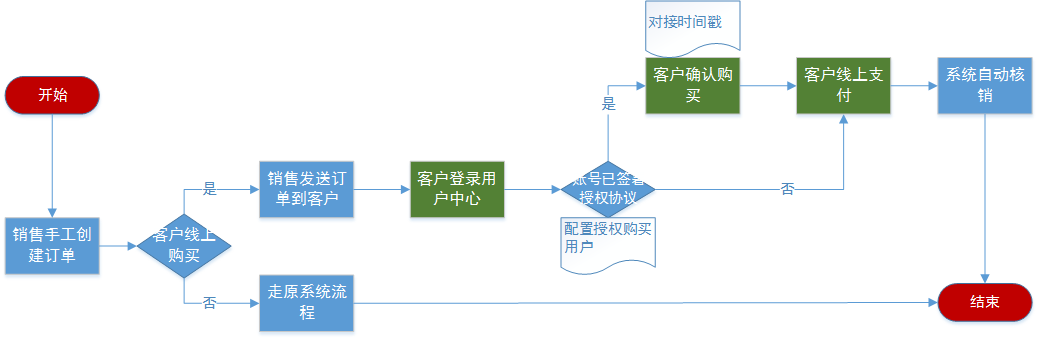
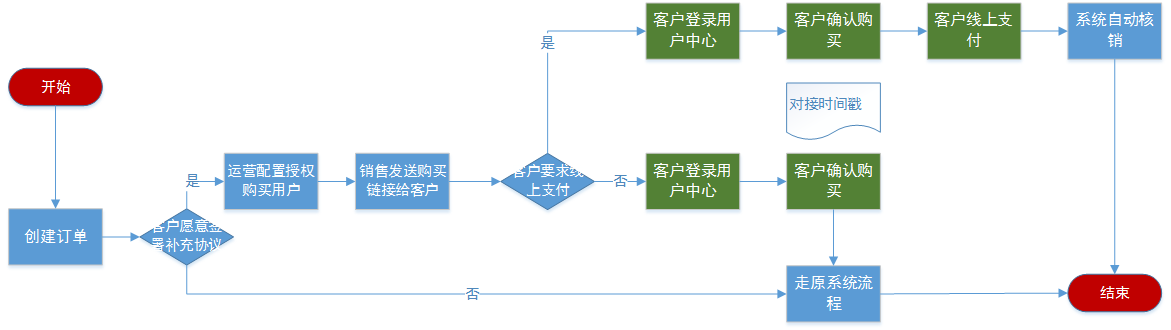
190313-1

diff --git a/files/vcg网站线上确认购买/data.js b/files/vcg网站线上确认购买/data.js
@@ -2,6 +2,6 @@
 (function() {
     var _ = function() { var r={},a=arguments; for(var i=0; i<a.length; i+=2) r[a[i]]=a[i+1]; return r; }
     var _creator = function() { return _(b,c,d,e,f,g,h,g,i,[j,k,l],m,_(n,o,p,q,r,s,t,_(),u,_(v,w,x,y,z,_(A,B,C,D),E,null,F,y,G,y,H,I,J,null,K,L,M,N,O,P,Q,L),R,_(),S,_(),T,_(U,[_(V,W,X,Y,Z,ba,p,bb,bc,bb,bd,be,u,_(v,bf,bg,_(bh,bi,bj,bk),bl,_(bm,bn,bo,bp)),R,_(),bq,_(),U,[_(V,br,X,Y,Z,null,bs,be,p,bt,bc,bu,bd,be,u,_(v,bf,bg,_(bh,bi,bj,bk),bl,_(bm,bn,bo,bp)),R,_(),bq,_())],bv,_(bw,bx))])),by,_(),bz,_(bA,_(bB,bC),bD,_(bB,bE)));}; 
-var b="url",c="vcg网站线上确认购买.html",d="generationDate",e=new Date(1552286977363.27),f="isCanvasEnabled",g=false,h="isAdaptiveEnabled",i="variables",j="OnLoadVariable",k="rl_date",l="rl_day",m="page",n="packageId",o="c55961dad9ee45d1ab4537572dcbf049",p="type",q="Axure:Page",r="name",s="VCG网站线上确认购买",t="notes",u="style",v="baseStyle",w="627587b6038d43cca051c114ac41ad32",x="pageAlignment",y="near",z="fill",A="fillType",B="solid",C="color",D=0xFFFFFFFF,E="image",F="imageHorizontalAlignment",G="imageVerticalAlignment",H="imageRepeat",I="auto",J="favicon",K="sketchFactor",L="0",M="colorStyle",N="appliedColor",O="fontName",P="Applied Font",Q="borderWidth",R="adaptiveStyles",S="interactionMap",T="diagram",U="objects",V="id",W="26d285d5cd5b4b25aea71de6fc759b5f",X="label",Y="",Z="friendlyType",ba="图片",bb="imageBox",bc="styleType",bd="visible",be=true,bf="75a91ee5b9d042cfa01b8d565fe289c0",bg="size",bh="width",bi=1038,bj="height",bk=339,bl="location",bm="x",bn=23,bo="y",bp=19,bq="imageOverrides",br="e71f89545da74e469e22e191fe093b2d",bs="isContained",bt="richTextPanel",bu="paragraph",bv="images",bw="normal~",bx="images/vcg网站线上确认购买/u170933.png",by="masters",bz="objectPaths",bA="26d285d5cd5b4b25aea71de6fc759b5f",bB="scriptId",bC="u170933",bD="e71f89545da74e469e22e191fe093b2d",bE="u170934";
+var b="url",c="vcg网站线上确认购买.html",d="generationDate",e=new Date(1552457866669.91),f="isCanvasEnabled",g=false,h="isAdaptiveEnabled",i="variables",j="OnLoadVariable",k="rl_date",l="rl_day",m="page",n="packageId",o="c55961dad9ee45d1ab4537572dcbf049",p="type",q="Axure:Page",r="name",s="VCG网站线上确认购买",t="notes",u="style",v="baseStyle",w="627587b6038d43cca051c114ac41ad32",x="pageAlignment",y="near",z="fill",A="fillType",B="solid",C="color",D=0xFFFFFFFF,E="image",F="imageHorizontalAlignment",G="imageVerticalAlignment",H="imageRepeat",I="auto",J="favicon",K="sketchFactor",L="0",M="colorStyle",N="appliedColor",O="fontName",P="Applied Font",Q="borderWidth",R="adaptiveStyles",S="interactionMap",T="diagram",U="objects",V="id",W="30e3ff9944064731830d5fa8945bf0a9",X="label",Y="",Z="friendlyType",ba="图片",bb="imageBox",bc="styleType",bd="visible",be=true,bf="75a91ee5b9d042cfa01b8d565fe289c0",bg="size",bh="width",bi=1171,bj="height",bk=330,bl="location",bm="x",bn=0,bo="y",bp=101,bq="imageOverrides",br="260dcfa82aff4db3b8dc3a8e5b0afd8a",bs="isContained",bt="richTextPanel",bu="paragraph",bv="images",bw="normal~",bx="images/vcg网站线上确认购买/regen/u0.png",by="masters",bz="objectPaths",bA="30e3ff9944064731830d5fa8945bf0a9",bB="scriptId",bC="u0",bD="260dcfa82aff4db3b8dc3a8e5b0afd8a",bE="u1";
 return _creator();
 })());

diff --git a/files/vcg网站线上确认购买/styles.css b/files/vcg网站线上确认购买/styles.css
@@ -3,7 +3,7 @@
   background-image:none;
   position:static;
   left:auto;
-  width:1061px;
+  width:1171px;
   margin-left:0;
   margin-right:0;
   text-align:left;
@@ -12,25 +12,25 @@
   position:absolute;
   z-index:0;
 }
-#u170933_img {
+#u0_img {
   position:absolute;
   left:0px;
   top:0px;
-  width:1038px;
-  height:339px;
+  width:1171px;
+  height:330px;
 }
-#u170933 {
+#u0 {
   position:absolute;
-  left:23px;
-  top:19px;
-  width:1038px;
-  height:339px;
+  left:0px;
+  top:101px;
+  width:1171px;
+  height:330px;
 }
-#u170934 {
+#u1 {
   position:absolute;
   left:2px;
-  top:162px;
-  width:1034px;
+  top:157px;
+  width:1167px;
   visibility:hidden;
   word-wrap:break-word;
 }

diff --git a/vcg网站线上确认购买.html b/vcg网站线上确认购买.html
@@ -52,10 +52,10 @@
     <div id="base" class="">
 
       <!-- Unnamed (图片) -->
-      <div id="u170933" class="ax_default image">
-        <img id="u170933_img" class="img " src="images/vcg网站线上确认购买/u170933.png"/>
+      <div id="u0" class="ax_default image">
+        <img id="u0_img" class="img " src="images/vcg网站线上确认购买/regen/u0.png"/>
         <!-- Unnamed () -->
-        <div id="u170934" class="text" style="display: none; visibility: hidden">
+        <div id="u1" class="text" style="display: none; visibility: hidden">
           <p><span></span></p>
         </div>
       </div>
